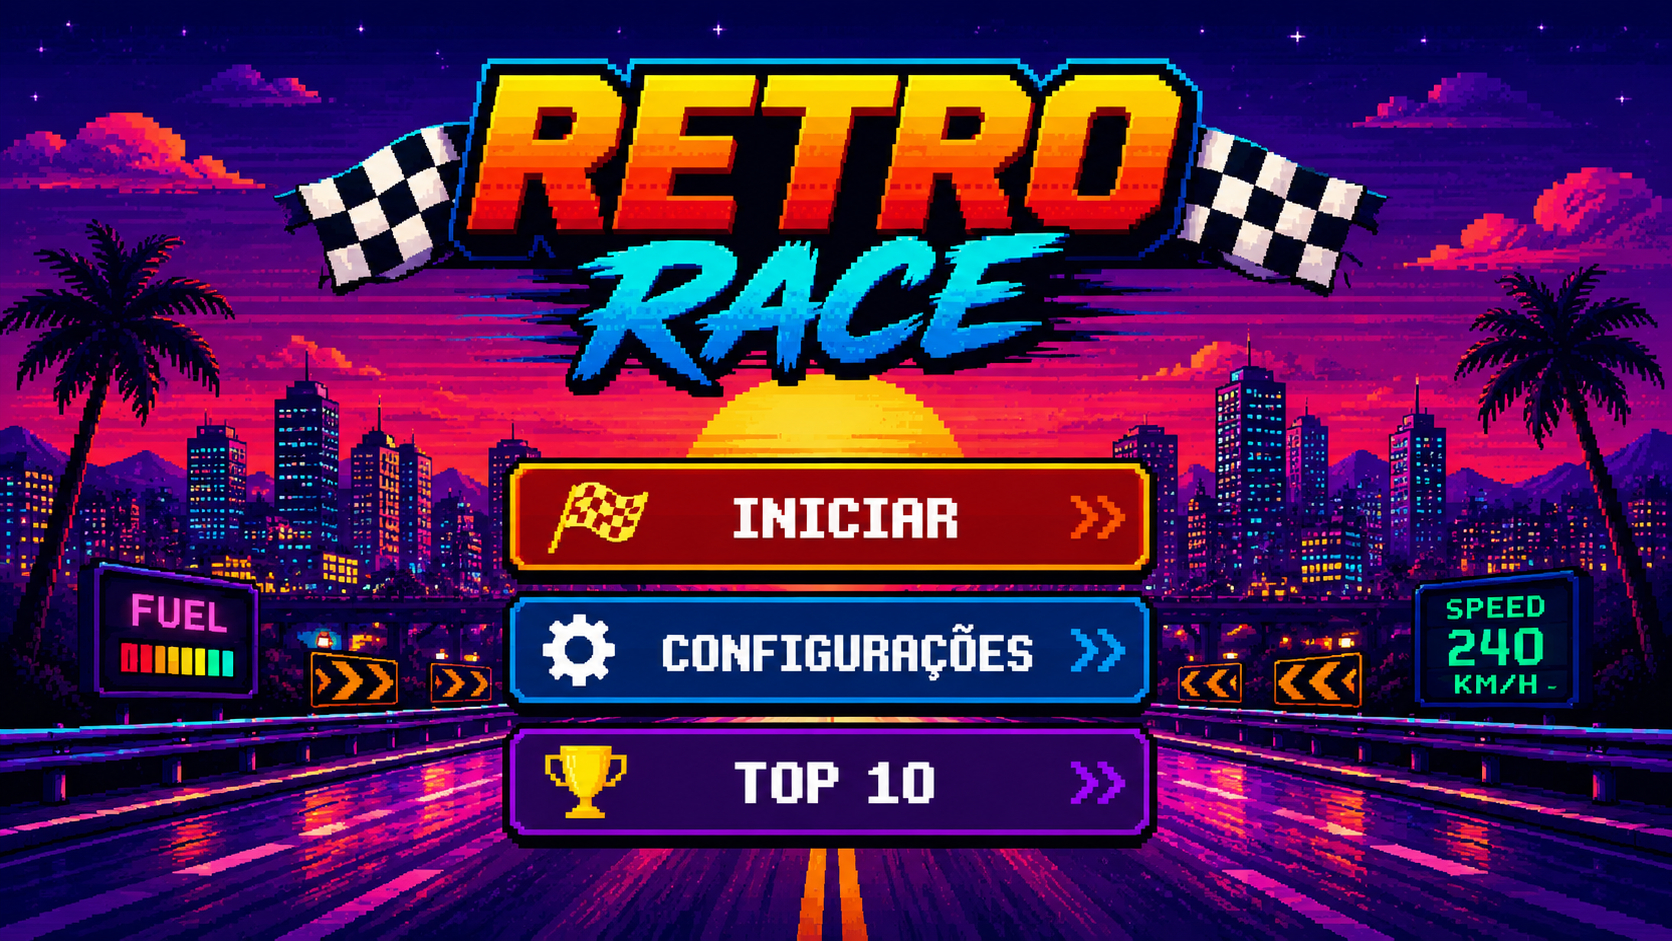
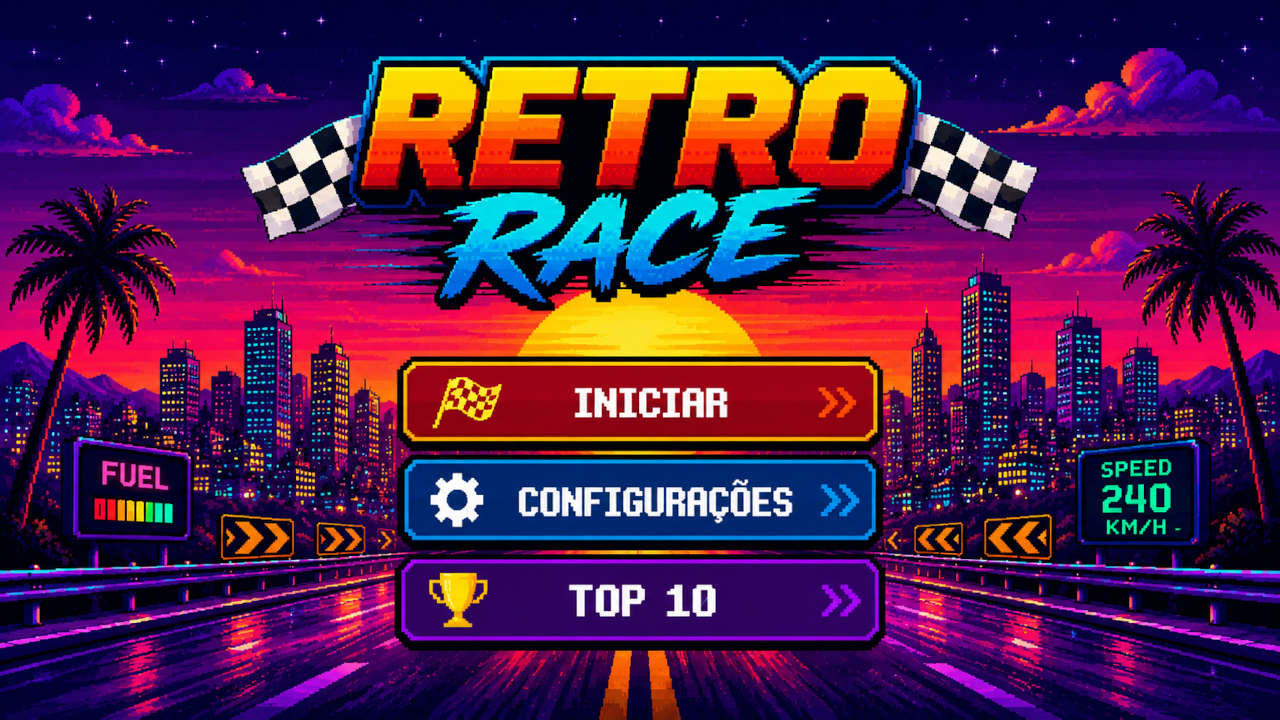
Add Menu.png and butons

diff --git a/src/main.c b/src/main.c
@@ -12,20 +12,20 @@ typedef enum
 
 int main(void) {
 
-    const screenWhidth = 1280;
-    const sreenHeight = 720;
+    const int screenWhidth = 1280;
+    const int sreenHeight = 720;
 
     InitWindow(screenWhidth, sreenHeight, "Retro Race");
 
     SetTargetFPS(60);
 
-    Texture2D manuBackground = LoadTexture("assets/menu.png");
+    Texture2D menuBackground = LoadTexture("assets/menu.png");
 
     GameScreen telaAtual = MENU;
 
-    Rectangle botaoIniciar = {365, 355, 550, 85};
-    Rectangle botaoConfig  = {365, 470, 550, 85};
-    Rectangle botaoTop10   = {365, 585, 550, 85};
+    Rectangle botaoIniciar = {400, 355, 480, 85};
+    Rectangle botaoConfig  = {400, 455, 480, 85};
+    Rectangle botaoTop10   = {400, 555, 480, 85};
 
     while (!WindowShouldClose()){
         
@@ -56,9 +56,33 @@ int main(void) {
                 
                 telaAtual = TOP10;
             }
+
+            BeginDrawing();
+
+            ClearBackground(BLACK);
+
+            DrawTexture(menuBackground, 0, 0, WHITE);
+
+            if(hoverIniciar){
+
+                DrawRectangleLinesEx(botaoIniciar, 4, GREEN);
+            }
+
+            if(hoverConfig){
+
+                DrawRectangleLinesEx(botaoConfig, 4, SKYBLUE);
+            }
+
+            if(hoverTop10){
+
+                DrawRectangleLinesEx(botaoTop10, 4, YELLOW);
+            }
             
+            EndDrawing();
 
         }
+
+
 
     }
     